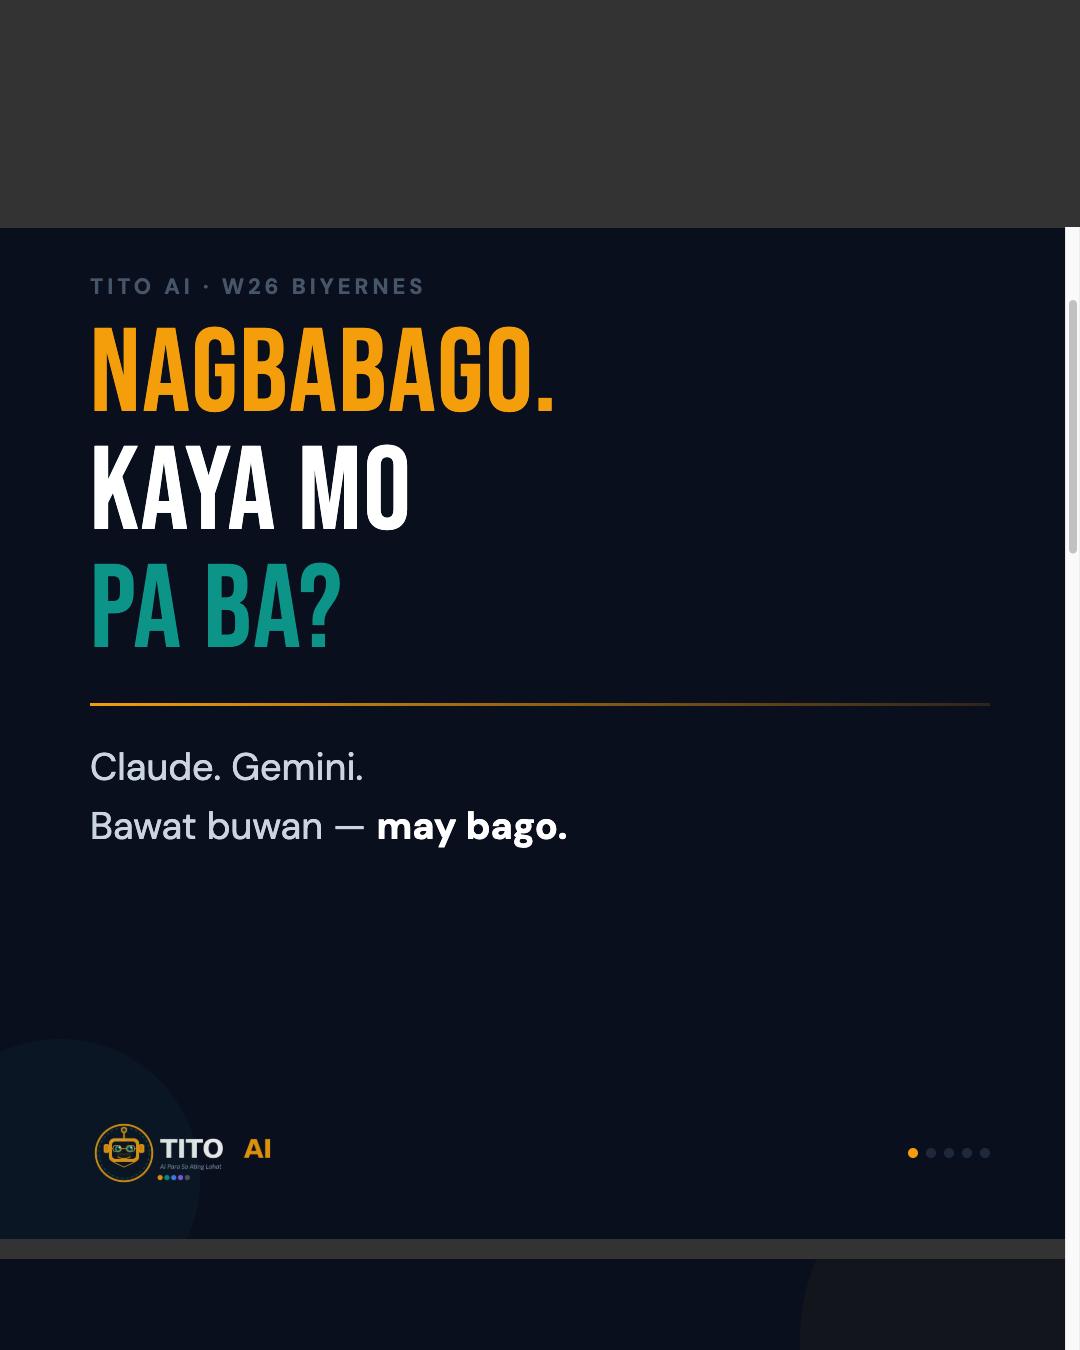
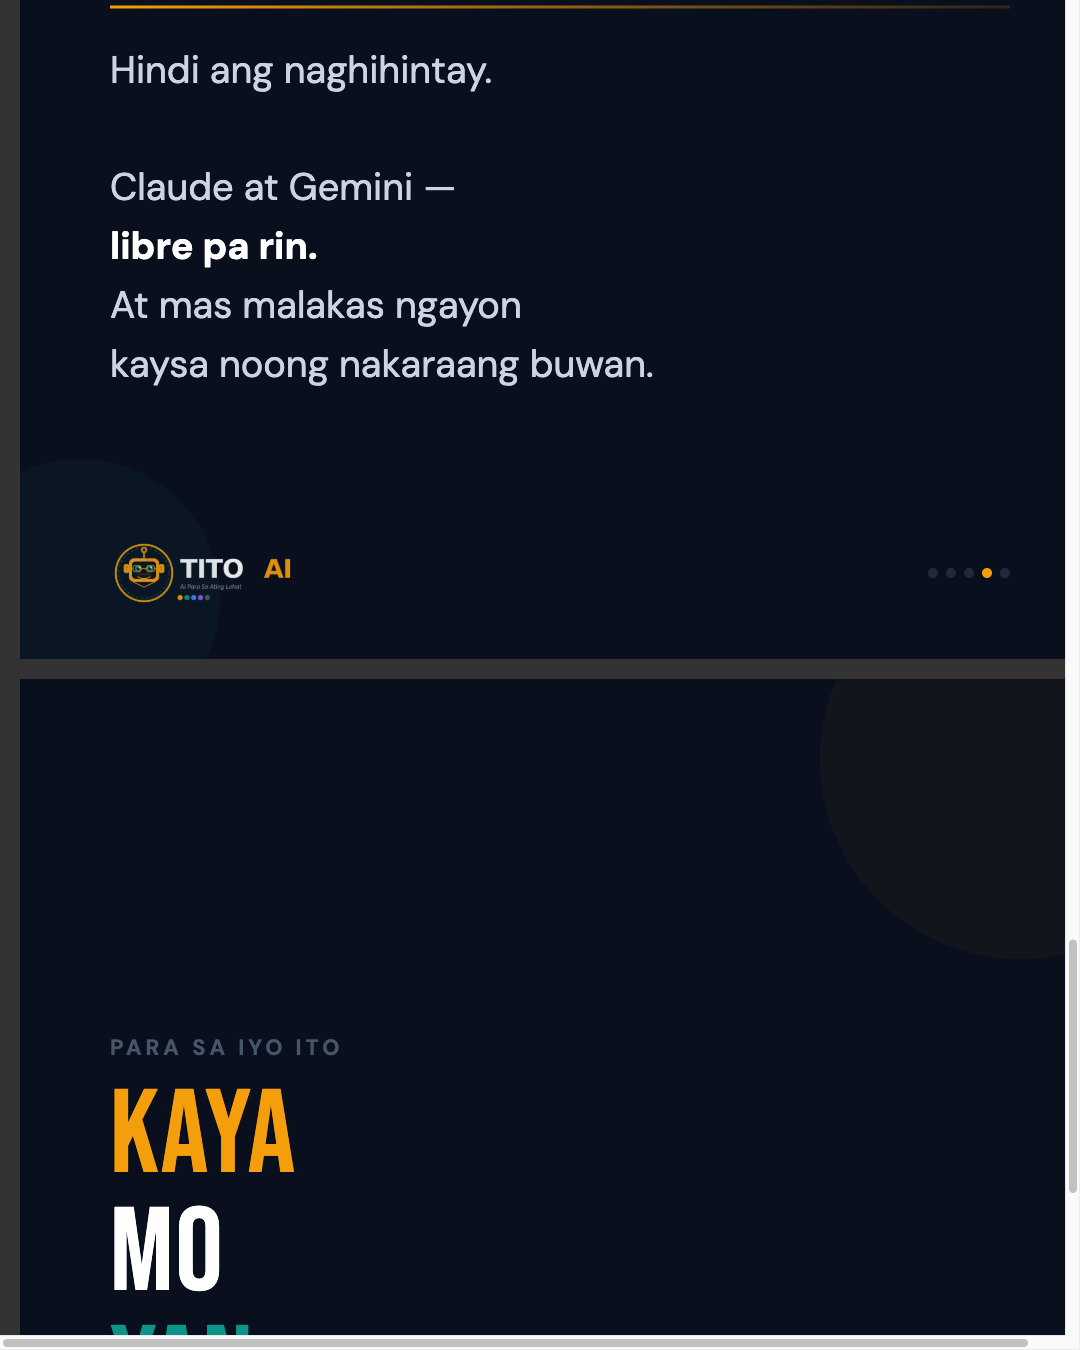
fix: update W26 Fri slide 5 to Kaya Mo Yan

diff --git a/docs/w26-fri-slides-render.html b/docs/w26-fri-slides-render.html
@@ -93,15 +93,15 @@ body{background:#333;display:flex;flex-direction:column;gap:20px;padding:20px;al
 
 <!-- SLIDE 5: CTA -->
 <div class="slide" id="s5">
-  <div class="label">I-comment sa Baba</div>
-  <span class="t-line t-white">CLAUDE</span>
-  <span class="t-line t-white">O</span>
-  <span class="t-line t-gold">GEMINI?</span>
+  <div class="label">Para Sa Iyo Ito</div>
+  <span class="t-line t-gold">KAYA</span>
+  <span class="t-line t-white">MO</span>
+  <span class="t-line t-teal">YAN.</span>
   <div class="divider"></div>
   <div class="body-text">
-    Alin ang ginagamit mo ngayon?<br>
-    O wala pa? <strong>Okay lang —</strong><br>
-    iyon ang simula natin.
+    Sundan mo si Tito AI.<br>
+    Linggu-linggo — <strong>sabay tayo.</strong><br>
+    AI Para Sa Ating Lahat. 🇵🇭
   </div>
   <div class="footer">
     <img src="http://localhost:8765/assets/logo-horizontal.png" alt="Tito AI">
